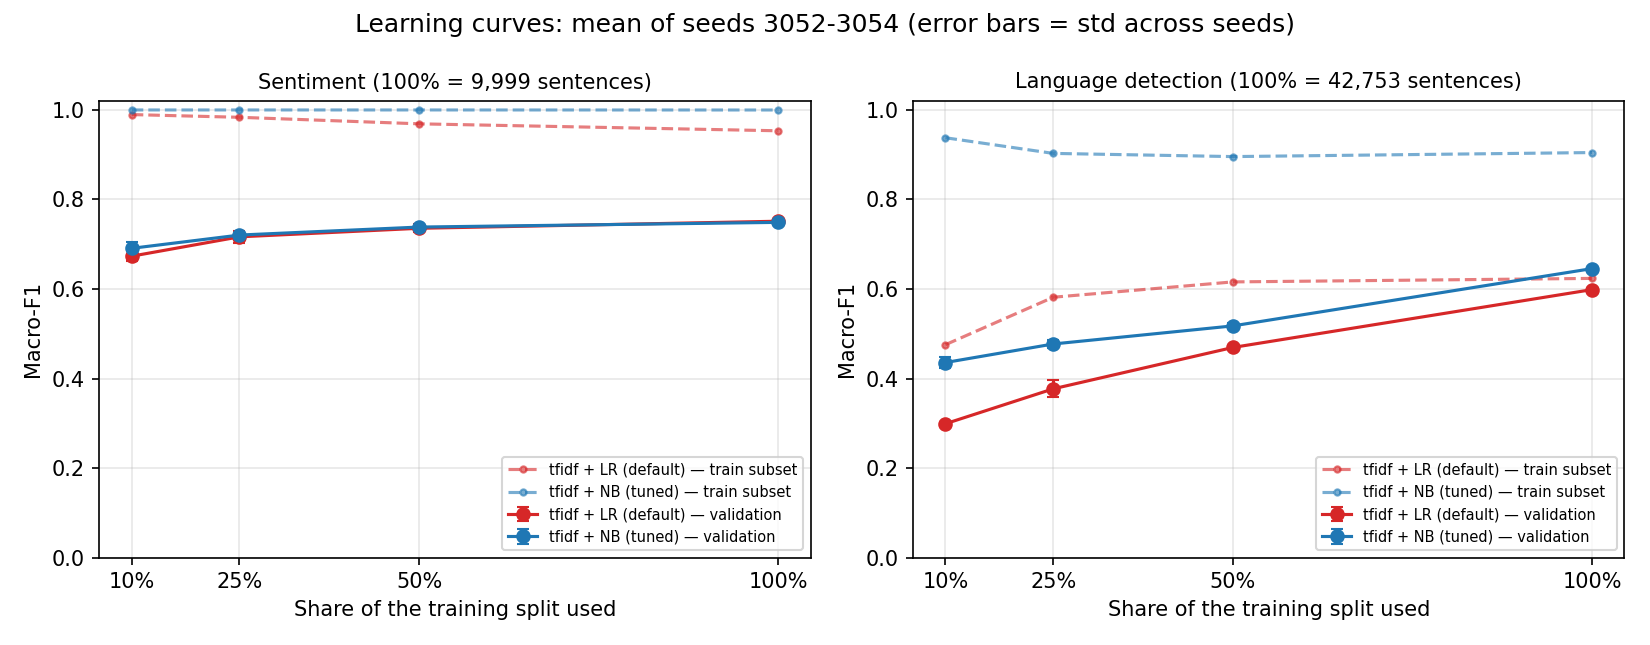
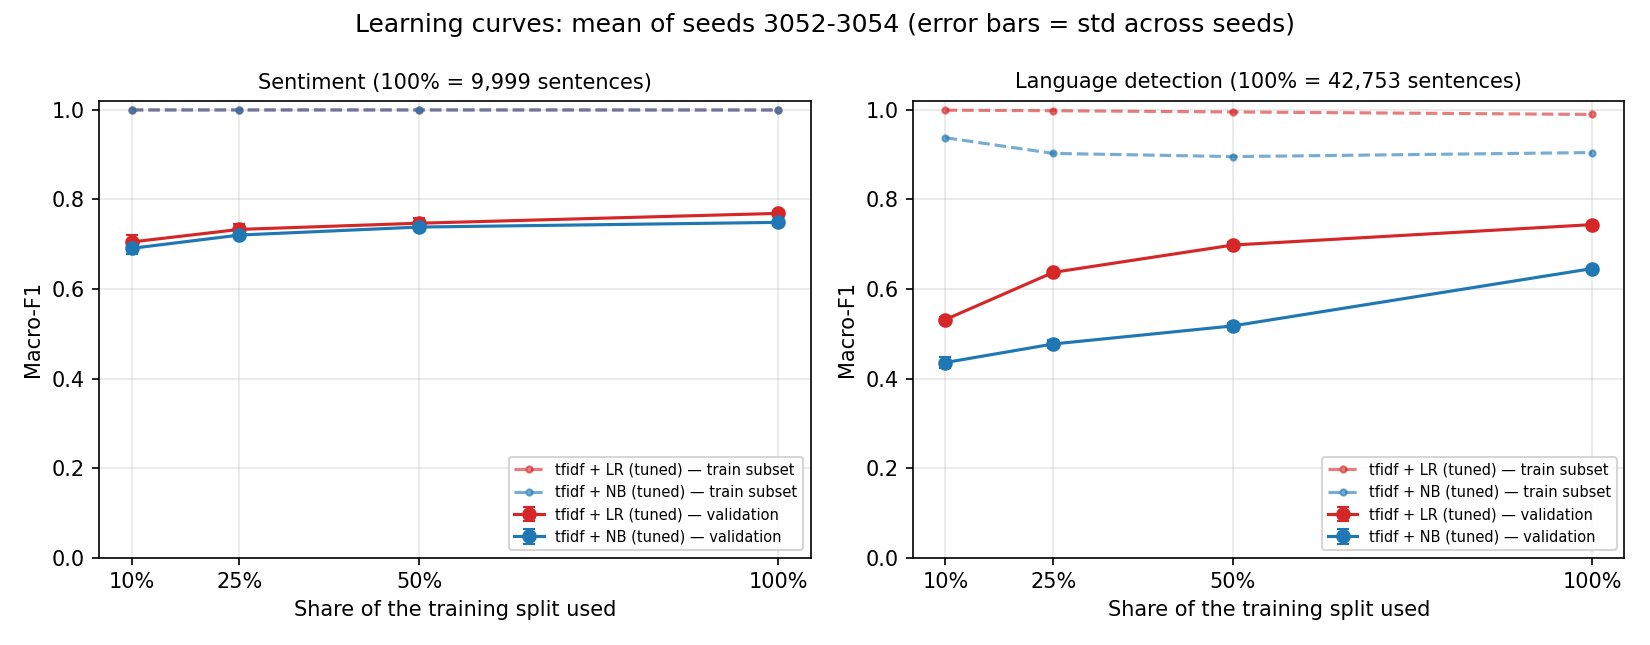
Verify tuned M5 uncertainty and learning curves

diff --git a/experiments/LOG.md b/experiments/LOG.md
@@ -58,6 +58,7 @@ Shared settings unless an entry says otherwise:
 - **Search space:** none (uses the settings chosen by the tuning scripts)
 - **Result:** sentiment: NB 0.749 [0.724, 0.776], LR 0.751 [0.725, 0.778]; paired LR − NB = +0.003 [−0.020, +0.025]. LD: NB 0.646 [0.621, 0.669], LR 0.599 [0.571, 0.626]; paired NB − LR = +0.047 [+0.020, +0.075]. Majority: 0.167 (sentiment), 0.268 (LD). `results/uncertainty_ci.csv`, `results/uncertainty_paired.csv`, `results/uncertainty_ci.png`
 - **Observation:** on sentiment, NB and LR cannot be told apart (the paired interval contains 0 and LR wins only 60% of resamples), while on LD tuned NB beats default LR in every resample. The intervals are about ±0.025, so differences under ~0.03 between single validation scores should not be reported as improvements. For LD, the group-level and sentence-level bootstraps gave almost the same width (SE 0.012 vs. 0.012 for NB).
+- **Observation:** on sentiment, NB and LR cannot be told apart (the paired interval contains 0 and LR wins only 60% of resamples), while on LD tuned NB beats default LR in every resample. The intervals are about ±0.025, so differences under ~0.03 between single validation scores should not be reported as improvements. For LD, the group-level and sentence-level bootstraps gave almost the same width (SE 0.012 vs. 0.012 for NB). This was the initial run using default LR because the tuned LR results were not yet available; the analysis was rerun with the final tuned LR settings on 2026-11-18 (see the verification entry below).
 
 ### 2026-11-17 — Learning curves (Diana Riyahi)
 - **Goal:** sensitivity of each model to the amount of training data; would more data help?
@@ -67,7 +68,24 @@ Shared settings unless an entry says otherwise:
 - **Search space:** training fraction ∈ {10%, 25%, 50%, 100%}
 - **Result:** validation macro-F1 (mean ± std over seeds) at 10 / 25 / 50 / 100%: sentiment LR 0.673±0.012 / 0.717±0.014 / 0.736±0.009 / 0.751, NB 0.691±0.013 / 0.721±0.002 / 0.738±0.002 / 0.749; LD LR 0.299±0.005 / 0.377±0.019 / 0.469±0.003 / 0.599, NB 0.436±0.012 / 0.477±0.010 / 0.518±0.007 / 0.646. `results/learning_curves.csv`, `results/learning_curves_summary.csv`, `results/learning_curves.png`
 - **Observation:** sentiment is flattening (+0.015 from 50% to 100%) with a train–validation gap of 0.20–0.25, so more data of the same kind would help only a little and the models mainly overfit; LD is still rising steeply (+0.13 from 50% to 100% for both models), so LD is data-limited, and LR on LD barely fits its own training data (train 0.62), which matches the underfitting found in M4. Seed-to-seed spread (≤ 0.02) is smaller than the bootstrap intervals.
-- **Date:** 2026-11-17
-- **Model and settings:** TF-IDF + L2 Logistic Regression; two-stage validation search over C and character n-gram range
-- **Result:** best setting for both tasks was C=30, ngram=(1, 2). Sentiment validation macro-F1 = 0.769, accuracy = 0.767. LD validation macro-F1 = 0.744, accuracy = 0.793. `results/tune_lr.csv`, `results/best_lr.csv`
-- **Observation:** tuned LR was the strongest validation model on both tasks. Test split was not used.
+- **Observation:** sentiment is flattening (+0.015 from 50% to 100%) with a train–validation gap of 0.20–0.25, so more data of the same kind would help only a little and the models mainly overfit; LD is still rising steeply (+0.13 from 50% to 100% for both models), so LD is data-limited, and LR on LD barely fits its own training data (train 0.62), which matches the underfitting found in M4. Seed-to-seed spread (≤ 0.02) is smaller than the bootstrap intervals. This was the initial run using default LR; the learning curves were rerun with the final tuned LR settings on 2026-11-18 (see the verification entry below).
+
+### 2026-11-17 — Logistic-regression tuning (David Zajac)
+- **Goal:** tune the logistic-regression baseline for both tasks and identify the strongest validation configuration for the Milestone 5 model comparison
+- **Script / command:** `python scripts/tune_lr.py`; `python scripts/main_results.py`
+- **Task(s):** sentiment, LD
+- **Model and settings:** TF-IDF character features + L2 LogisticRegression; final selected configuration C = 30, char 1–2-grams
+- **Search space:** C ∈ {0.1, 0.3, 1, 3, 10, 30, 100}; character n-gram range ∈ {(1,1), (1,2), (1,3), (1,4)}
+- **Selection rule:** highest validation macro-F1; ties prefer smaller C
+- **Result:** best setting for both tasks was C = 30, ngram = (1, 2). Sentiment validation macro-F1 = 0.769, accuracy = 0.767; LD validation macro-F1 = 0.744, accuracy = 0.793. Outputs: `results/tune_lr.csv`, `results/best_lr.csv`, `results/main_results_valid.csv`, `results/main_results_valid.png`
+- **Observation:** tuned LR was the strongest validation model on both tasks and improved over the default LR configuration, especially on language detection. The test split was not used.
+
+### 2026-11-18 — Tuned-model uncertainty and learning-curve verification (David Zajac)
+- **Goal:** verify that Diana’s uncertainty and learning-curve analyses use the final tuned LR settings and produce results consistent with the main validation comparison
+- **Script / command:** `python scripts/uncertainty.py`; `python scripts/learning_curves.py --jobs 1`
+- **Task(s):** sentiment, LD
+- **Model and settings:** tuned TF-IDF + NB and tuned TF-IDF + LR; LR uses C = 30, char 1–2-grams
+- **Search space:** training fraction ∈ {10%, 25%, 50%, 100%} for learning curves; bootstrap B = 1000 for uncertainty analysis
+- **Selection rule:** fixed hyperparameters from prior tuning; no new model selection performed
+- **Result:** sentiment LR macro-F1 = 0.769 with 95% bootstrap CI [0.743, 0.792]; LD LR macro-F1 = 0.744 with 95% bootstrap CI [0.725, 0.763]. Paired LR − NB difference = 0.020 [−0.006, 0.044] for sentiment and 0.098 [0.076, 0.122] for LD. The serial learning-curve run reproduced the final full-data scores exactly: sentiment 0.769 and LD 0.744.
+- **Observation:** the serial rerun resolved the earlier LD 0.747 vs 0.744 discrepancy. Tuned LR remained strongest on both tasks; the sentiment LR–NB gap was small and its paired interval crossed zero, while the LD advantage was larger and clearly above zero. The test split was not used.

diff --git a/AI_USE.md b/AI_USE.md
@@ -29,6 +29,7 @@ research data, not assistance.
 | 2026-11-17 | David Zajac | ChatGPT | Helped develop and debug the Milestone 5 validation-only error-analysis workflow, including `scripts/error_analysis.py`, reproducible sampling of misclassified examples, interpretation and categorization of representative sentiment and language-detection errors, and drafting the error-analysis, conclusions, and limitations text. | David ran the script locally, checked that only train and validation splits were used, verified the generated error counts and CSV outputs, reviewed the selected examples against the source text and model predictions, and kept uncertain linguistic interpretations qualified rather than treating them as confirmed causes. |
 | 2026-11-17 | Diana Riyahi | Claude Code | M5 uncertainty and learning curves. Claude Code wrote `scripts/uncertainty.py` (paired bootstrap of validation predictions, cluster bootstrap by `source_id` for LD) and `scripts/learning_curves.py`, ran both on the validation split, and drafted the experiment-log entries and this row. | The bootstrap macro-F1 function was checked against scikit-learn's `f1_score` on 200 random cases (identical); the point estimates match the committed tuning results (NB 0.749 / 0.646 in `results/tune_nb_ngram.csv`, default LR 0.751 / 0.599 in `results/baseline_valid.csv`), and the 100% learning-curve points match the same values. Only train and validation splits are loaded; `--final` was not run. Diana reviewed the scripts, figures and log text before committing. |
 | 2026-11-17 | David Zajac | ChatGPT | Helped debug and verify the M5 logistic-regression tuning and main-results workflow, interpret the tuned validation results, adapt `scripts/main_results.py` to reuse committed LaBSE+kNN metrics when local sentence-transformers dependencies were unavailable, and update the final error-analysis conclusions. | David ran the tuning and main-results scripts locally, verified the best settings and metrics against the generated CSVs, confirmed that only train/validation data were used, and reviewed the resulting table and qualitative analysis before committing. |
+| 2026-11-18 | David Zajac | ChatGPT | Helped interpret Diana's M5 uncertainty and learning-curve outputs, identify the mismatch between the parallel LD learning-curve result (0.747) and the main tuned-LR result (0.744), and plan a serial rerun to verify reproducibility. Also helped update the experiment-log wording to distinguish the original default-LR analysis from the final tuned-LR rerun. | David reran `scripts/uncertainty.py` and `scripts/learning_curves.py --jobs 1` locally, confirmed that the serial full-data learning-curve scores matched the final tuned results (sentiment 0.769, LD 0.744), and checked the regenerated CSV outputs before documenting the result. |
 
 
 ## Section 2 — Generative models as an object of study

diff --git a/CONTRIBUTIONS.md b/CONTRIBUTIONS.md
@@ -88,6 +88,7 @@ agreed edits from the contract revision notes to the contract.
 | 2026-11-17 | David Zajac | Validation-set error analysis for sentiment and language detection: generated misclassification tables and confusion-direction counts, created reproducible candidate samples for qualitative review, manually selected representative errors, grouped likely failure types, and drafted the M5 error-analysis, conclusions, and limitations sections. | `scripts/error_analysis.py`, `results/error_analysis_sentiment.csv`, `results/error_analysis_ld.csv`, `results/error_counts_sentiment.csv`, `results/error_counts_ld.csv`, `results/error_candidates_sentiment.csv`, `results/error_candidates_ld.csv`, `results/error_selected_examples.csv`, `results/m5_error_analysis_notes.md`, branch `m5-error-analysis` | |
 | 2026-11-17 | Diana Riyahi | Uncertainty and sensitivity analysis on the validation split: bootstrap 95% confidence intervals for macro-F1 (B = 1000, seed 3052; resampling by `source_id` group for LD) with paired model-difference intervals; learning curves at 10/25/50/100% of train with seeds 3052–3054 for tuned NB and LR, including train-vs-validation gap; experiment-log entries | `scripts/uncertainty.py`, `scripts/learning_curves.py`, `results/uncertainty_ci.csv`, `results/uncertainty_paired.csv`, `results/uncertainty_ci.png`, `results/learning_curves.csv`, `results/learning_curves_summary.csv`, `results/learning_curves.png`, `experiments/LOG.md`, branch `m5-uncertainty-learning-curves` | |
 | 2026-11-17 | David Zajac | Re-ran and verified M5 logistic-regression tuning and main validation results after teammate integration; updated the main-results script to reuse committed LaBSE+kNN validation metrics when local sentence-transformers dependencies were unavailable; regenerated the validation results table/figure and updated error analysis using the tuned LR winner. | `scripts/main_results.py`, `results/tune_lr.csv`, `results/best_lr.csv`, `results/main_results_valid.csv`, `results/main_results_valid.png`, updated M5 error-analysis outputs | |
+| 2026-11-18 | David Zajac | Re-ran and verified the M5 uncertainty and learning-curve analyses after the final tuned LR configuration became available; used a serial learning-curve run to resolve the LD 0.747 vs 0.744 reproducibility discrepancy and confirmed the final full-data LR scores of 0.769 for sentiment and 0.744 for LD. | `results/uncertainty_ci.csv`, `results/uncertainty_paired.csv`, `results/uncertainty_ci.png`, `results/learning_curves.csv`, `results/learning_curves_summary.csv`, `results/learning_curves.png`, `experiments/LOG.md` | |
 
 ## M6 — Final report, repository and demonstration (due Dec 4, 2026)
 
